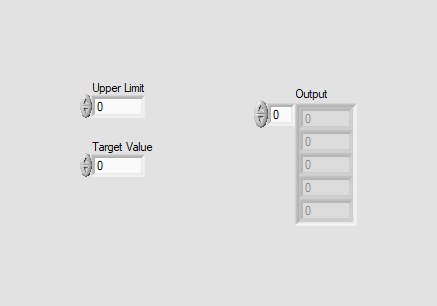
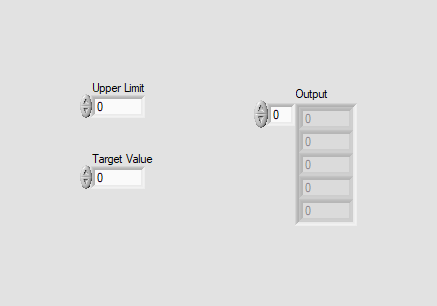
Publish to GitHub Pages

Changed region(s): [[0.1785, 0.4706, 0.357, 0.6176]]

diff --git a/vidiff/push-58b9faf79d31c9f7479792874a8a90eda7cadf9c/windows/vidiff/Number_Search.vi/index.html b/vidiff/push-58b9faf79d31c9f7479792874a8a90eda7cadf9c/windows/vidiff/Number_Search.vi/index.html
@@ -4,7 +4,7 @@
 <body>
 <div class="report">
 <h1 class="report-title">LabVIEW VI Comparison Report</h1>
-<p class="generation-time">11/13/2026 12:24:57 PM</p>
+<p class="generation-time">11/13/2026 1:36:14 PM</p>
 <div class="compared-VIs">
 <details><summary class="difference-heading"><div class="dropdown-left">First VI: C:\workspace-base\Number Search.vi</div><div class="dropdown-right">Second VI: C:\workspace\Number Search.vi</div></summary>
 <table class="difference"><tr class="compared-vi-image-captions"><td class="compared-vi-image-caption">Front Panel Overview</td></tr>
@@ -29,27 +29,6 @@
 </ul>
 </div>
 <h2 class="section-header">Detailed Information</h2>
-<details class="cosmetic" closed>
-
-<summary class="difference-cosmetic-heading">1. Front Panel - Numeric</summary>
-<table class="difference"><tr class="compared-vi-image-captions"><td class="compared-vi-image-caption">C:\workspace-base\Number Search.vi</td><td class="difference-divider"></td><td class="compared-vi-image-caption">C:\workspace\Number Search.vi</td></tr><tr class="compared-images"><td class="diff-image">
-
-<img class="difference-image" src="index_files/0_0_154_154_1.png" alt="index_files/0_0_154_154_1.png">
-</td><td class="difference-divider"></td><td class="diff-image">
-
-<img class="difference-image" src="index_files/0_0_154_154_2.png" alt="index_files/0_0_154_154_2.png">
-</td></tr></table>
-<ol class="detailed-description-list" type="A">
-<li class="diff-detail-cosmetic">Numeric "Target Value" - moved : changed from "<tt>(48,107)</tt>" to "<tt>(48,119)</tt>"</li>
-</ol>
-</details>
-<details open>
-
-<summary class="difference-heading">2. VI Attribute - Miscellaneous</summary>
-<ol class="detailed-description-list" type="A">
-<li class="diff-detail">	VI Version : changed from "17.0" to "26.0"</li>
-</ol>
-</details>
 </div>
 </body>
 </html>
